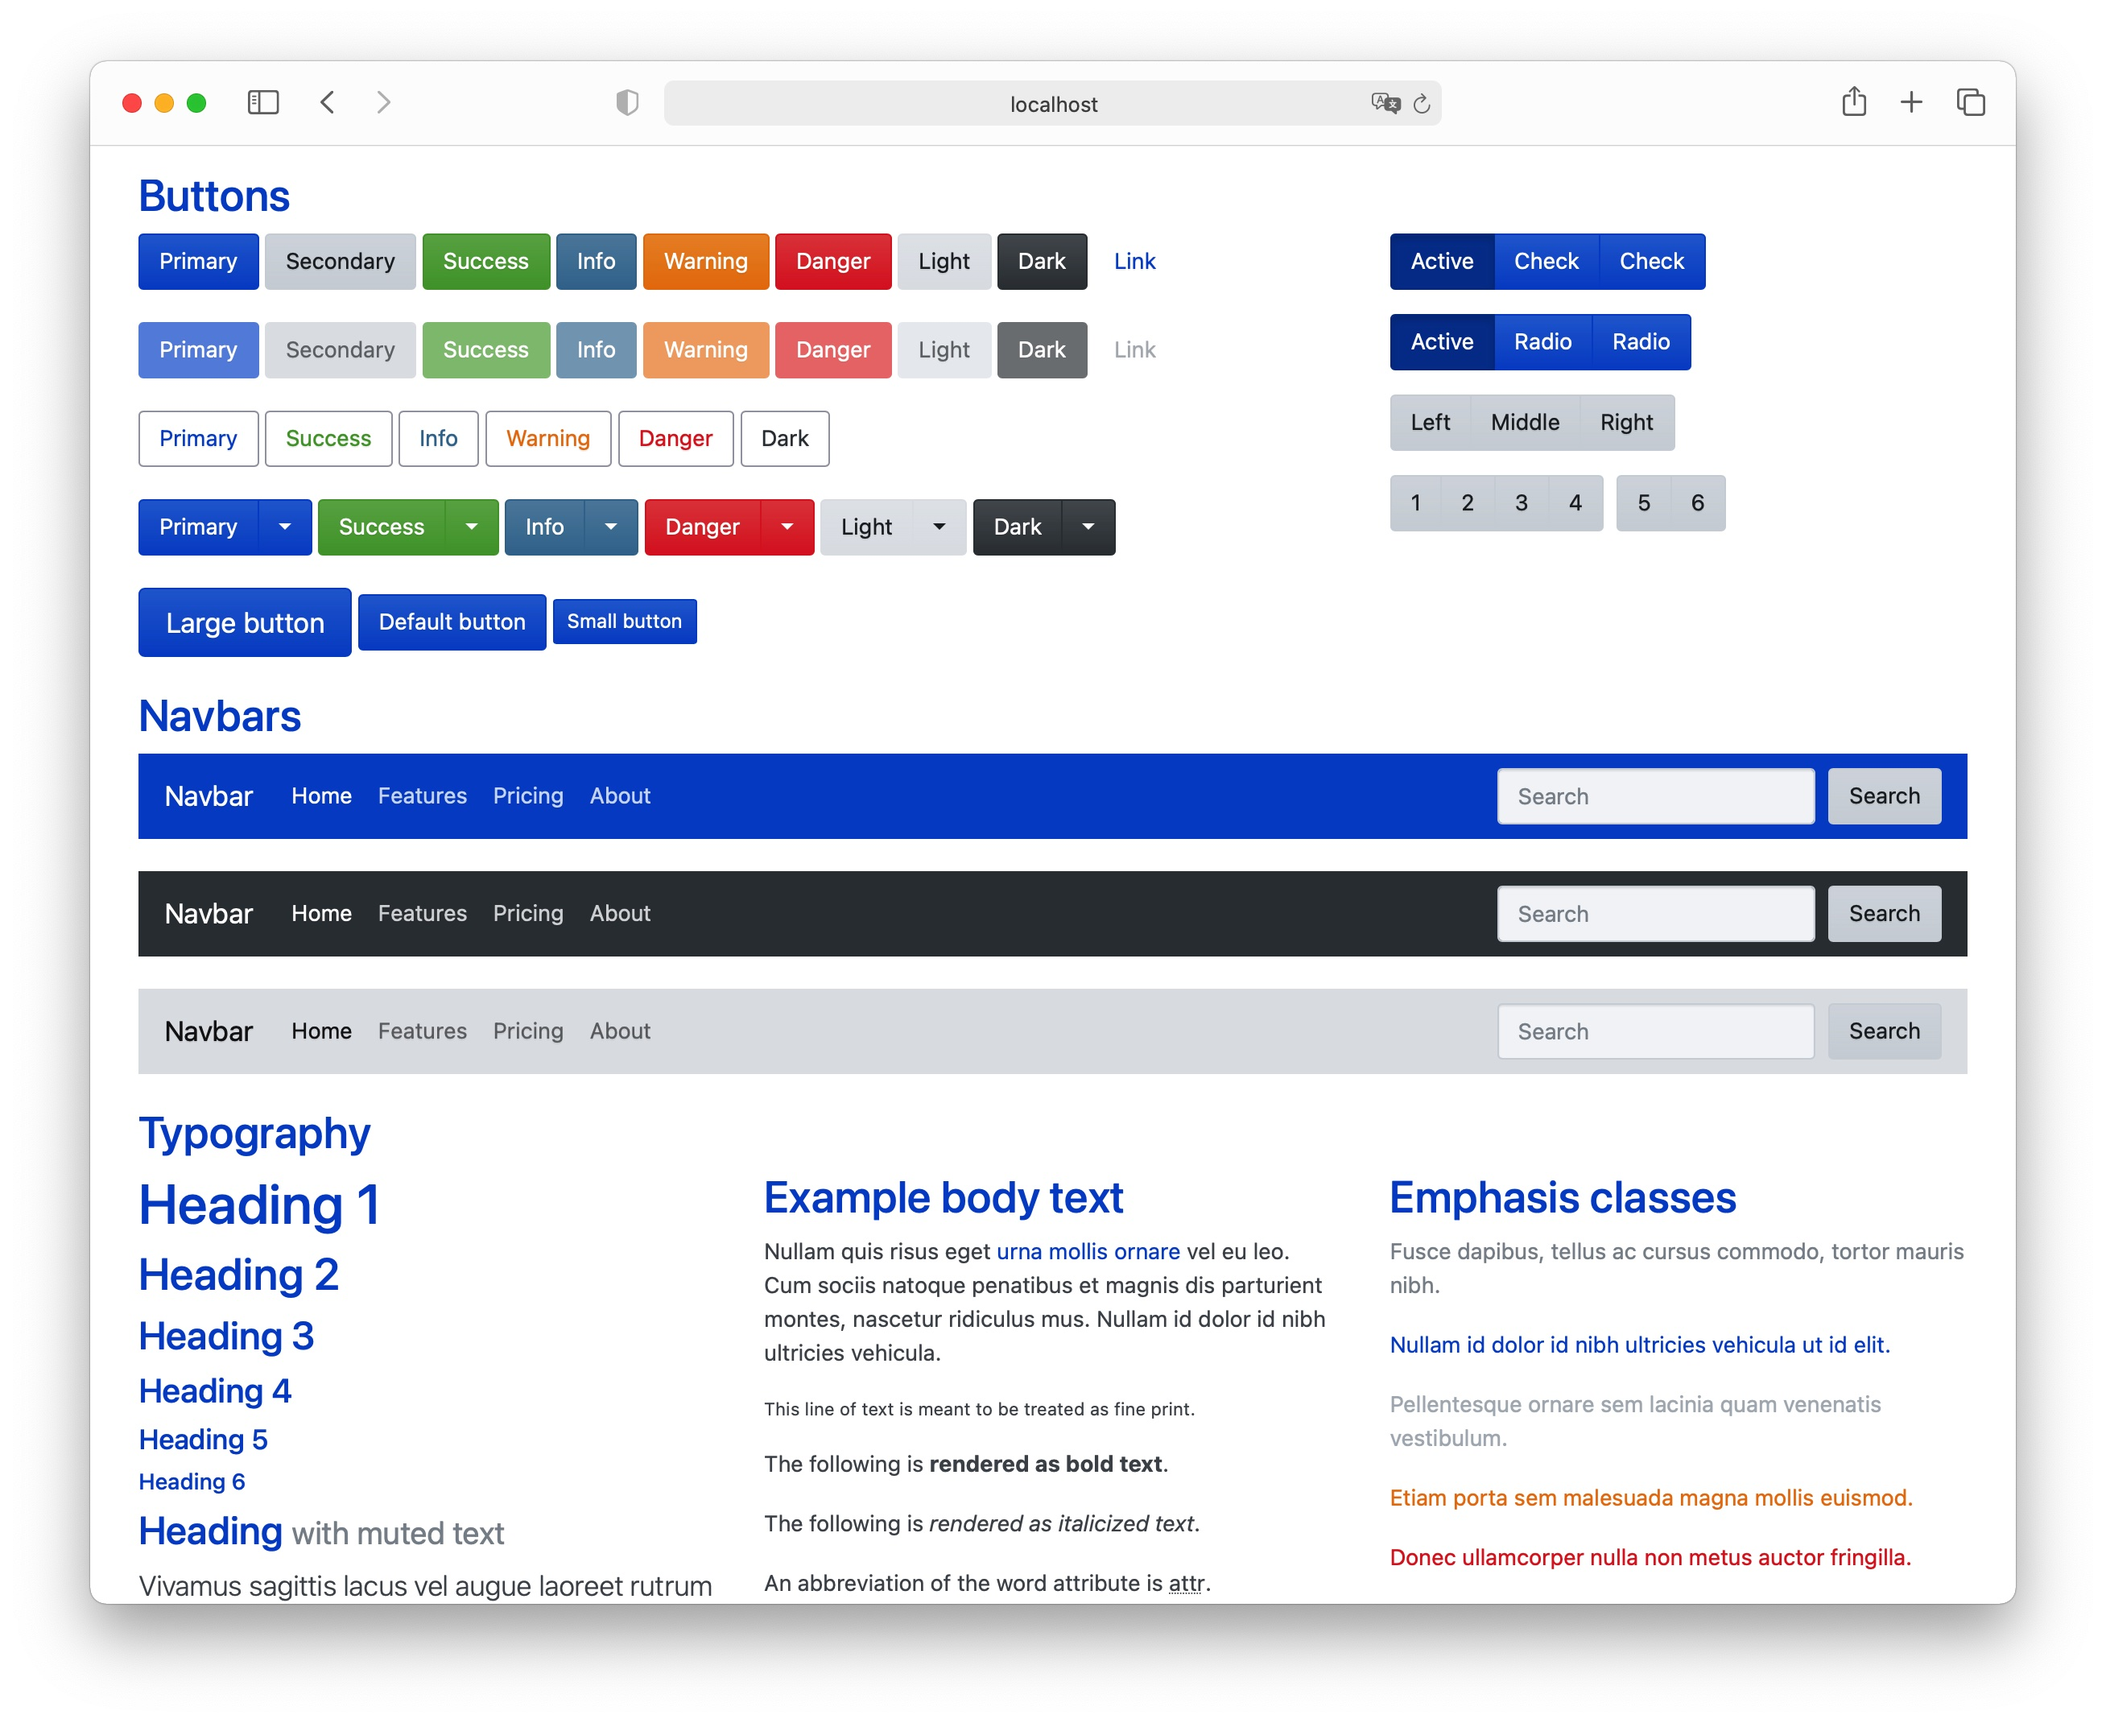
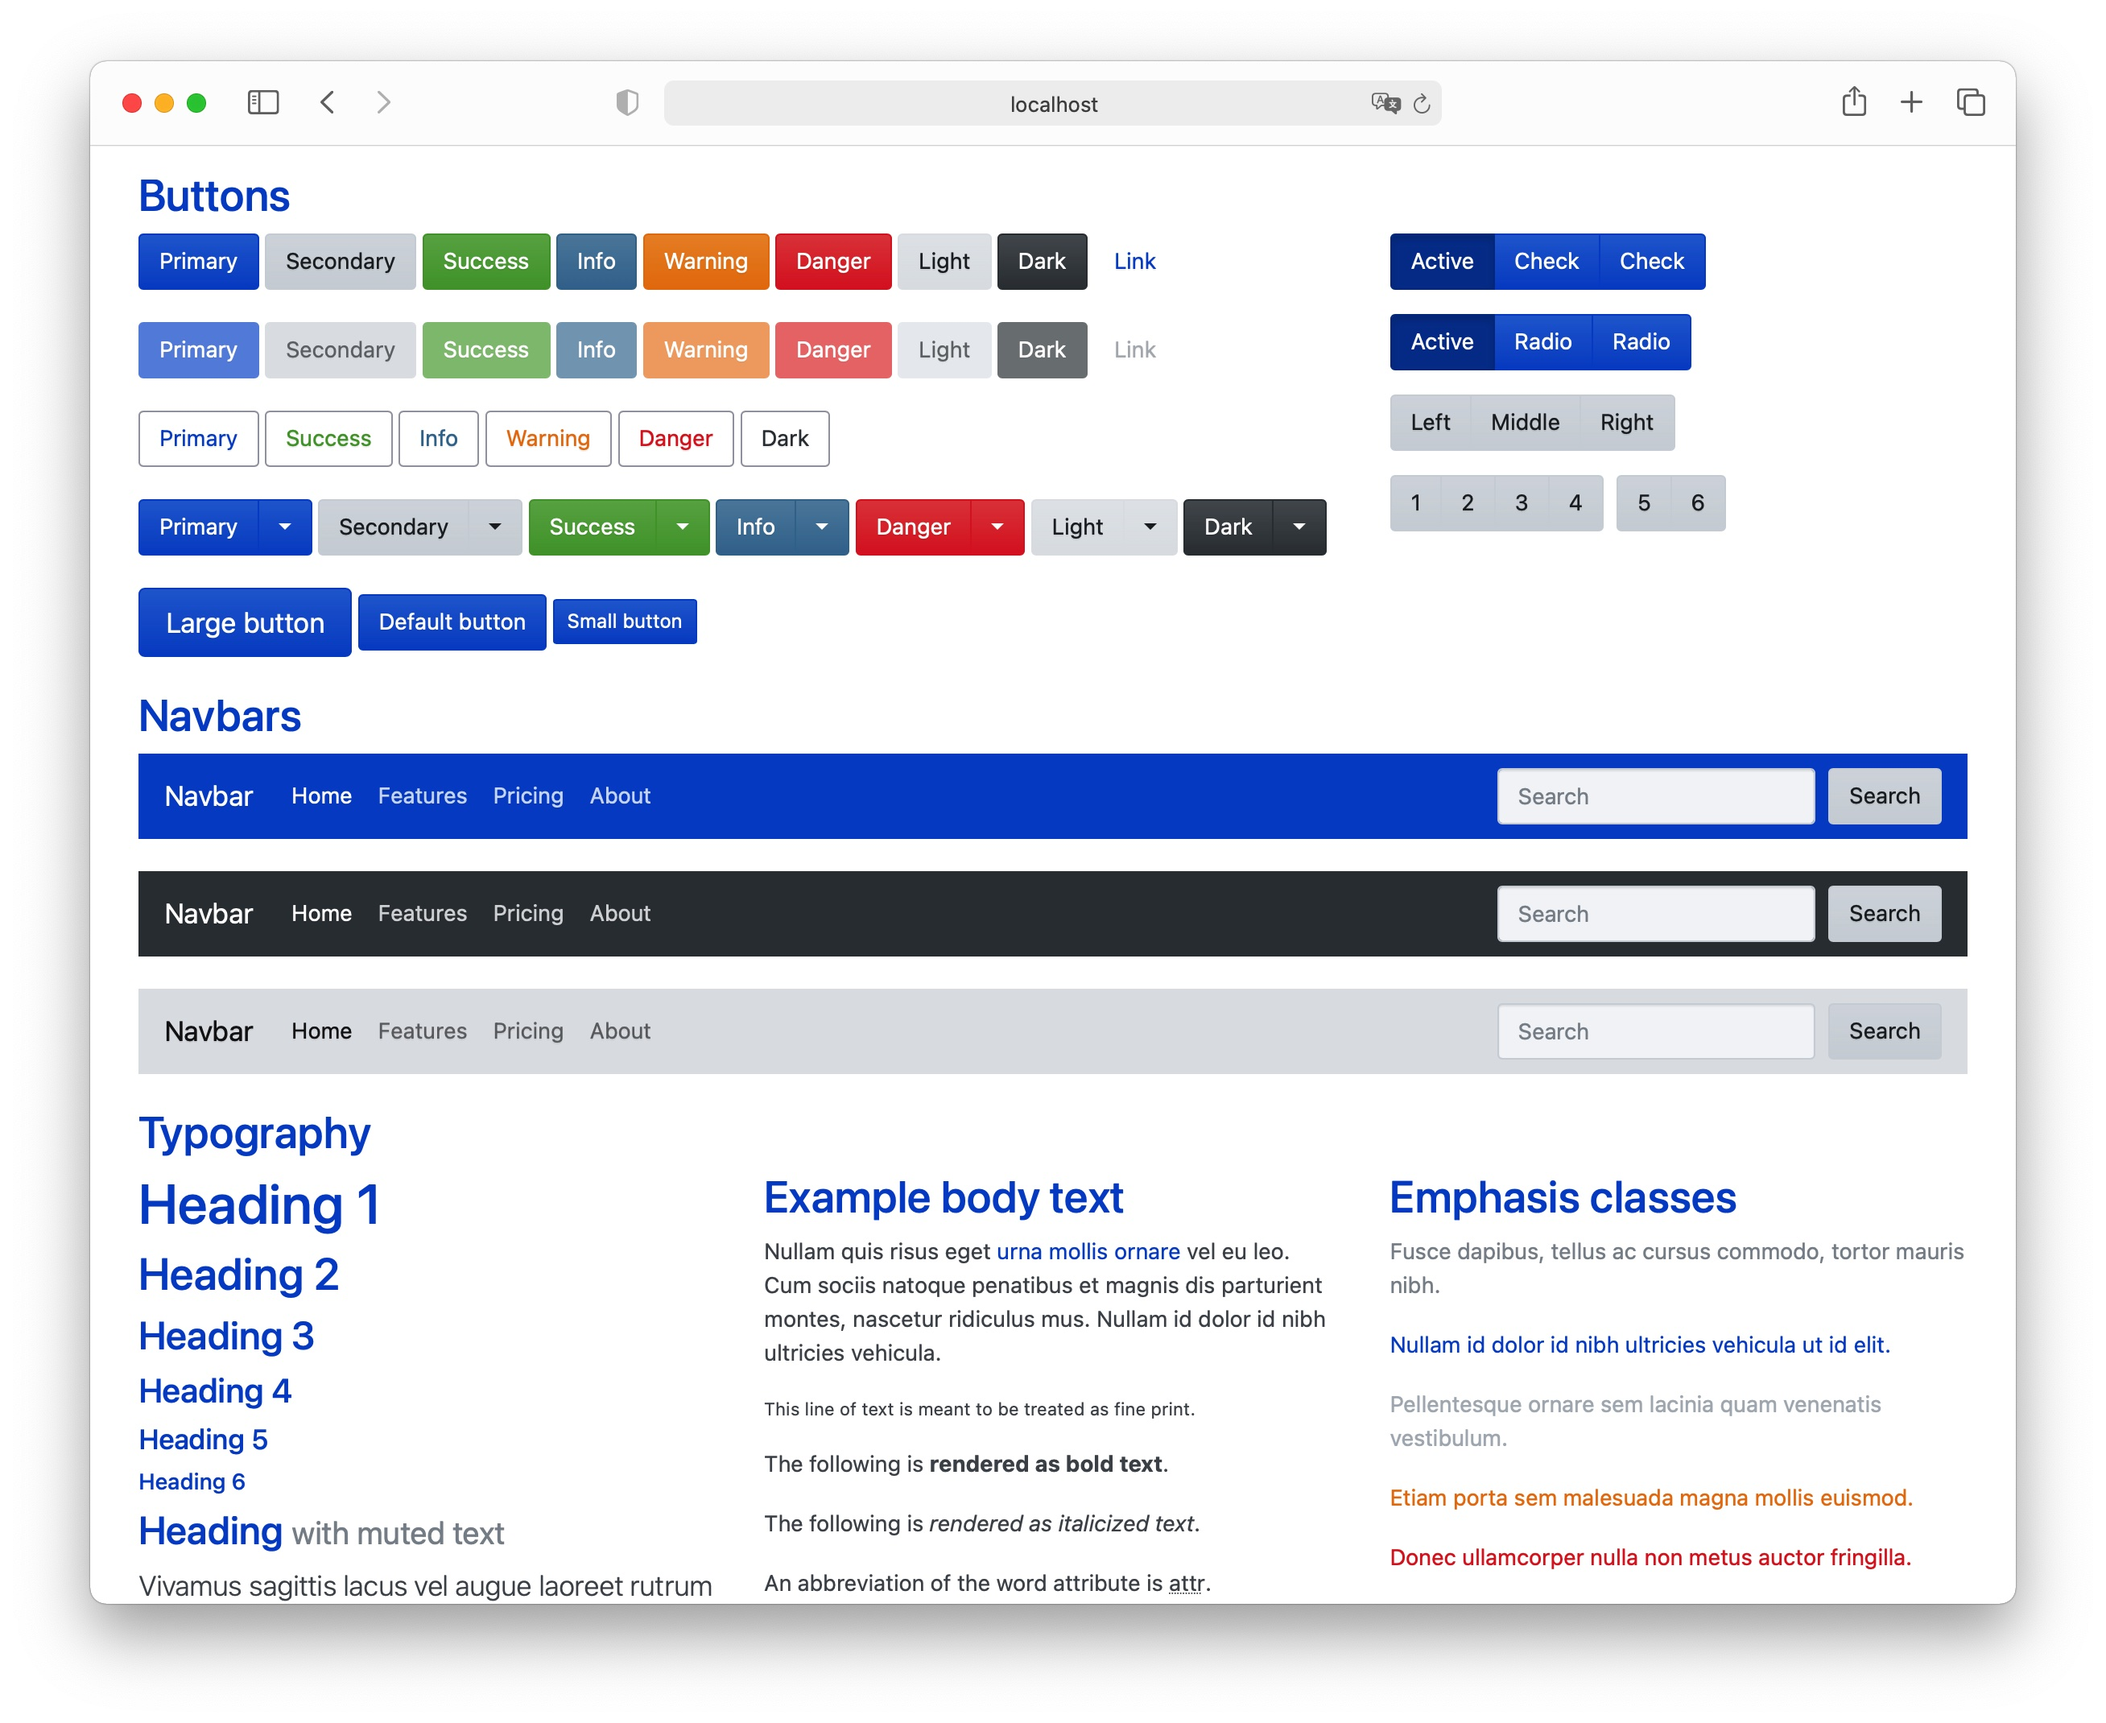
fix: add secondary dropdown buttons

Changed region(s): [[0.1548, 0.2776, 0.6502, 0.3393]]

diff --git a/index.html b/index.html
@@ -100,9 +100,21 @@
             </div>
 
             <div class="btn-group" role="group" aria-label="Button group with nested dropdown">
+              <button type="button" class="btn btn-secondary">Secondary</button>
+              <div class="btn-group" role="group">
+                <button id="btnGroupDrop2" type="button" class="btn btn-secondary dropdown-toggle" data-toggle="dropdown"
+                  aria-haspopup="true" aria-expanded="false"></button>
+                <div class="dropdown-menu" aria-labelledby="btnGroupDrop1">
+                  <a class="dropdown-item" href="#">Dropdown link</a>
+                  <a class="dropdown-item" href="#">Dropdown link</a>
+                </div>
+              </div>
+            </div>
+
+            <div class="btn-group" role="group" aria-label="Button group with nested dropdown">
               <button type="button" class="btn btn-success">Success</button>
               <div class="btn-group" role="group">
-                <button id="btnGroupDrop2" type="button" class="btn btn-success dropdown-toggle" data-toggle="dropdown"
+                <button id="btnGroupDrop3" type="button" class="btn btn-success dropdown-toggle" data-toggle="dropdown"
                   aria-haspopup="true" aria-expanded="false"></button>
                 <div class="dropdown-menu" aria-labelledby="btnGroupDrop2">
                   <a class="dropdown-item" href="#">Dropdown link</a>
@@ -114,7 +126,7 @@
             <div class="btn-group" role="group" aria-label="Button group with nested dropdown">
               <button type="button" class="btn btn-info">Info</button>
               <div class="btn-group" role="group">
-                <button id="btnGroupDrop3" type="button" class="btn btn-info dropdown-toggle" data-toggle="dropdown"
+                <button id="btnGroupDrop4" type="button" class="btn btn-info dropdown-toggle" data-toggle="dropdown"
                   aria-haspopup="true" aria-expanded="false"></button>
                 <div class="dropdown-menu" aria-labelledby="btnGroupDrop3">
                   <a class="dropdown-item" href="#">Dropdown link</a>
@@ -126,7 +138,7 @@
             <div class="btn-group" role="group" aria-label="Button group with nested dropdown">
               <button type="button" class="btn btn-danger">Danger</button>
               <div class="btn-group" role="group">
-                <button id="btnGroupDrop4" type="button" class="btn btn-danger dropdown-toggle" data-toggle="dropdown"
+                <button id="btnGroupDrop5" type="button" class="btn btn-danger dropdown-toggle" data-toggle="dropdown"
                   aria-haspopup="true" aria-expanded="false"></button>
                 <div class="dropdown-menu" aria-labelledby="btnGroupDrop4">
                   <a class="dropdown-item" href="#">Dropdown link</a>
@@ -138,7 +150,7 @@
             <div class="btn-group" role="group" aria-label="Button group with nested dropdown">
               <button type="button" class="btn btn-light">Light</button>
               <div class="btn-group" role="group">
-                <button id="btnGroupDrop5" type="button" class="btn btn-light dropdown-toggle" data-toggle="dropdown"
+                <button id="btnGroupDrop6" type="button" class="btn btn-light dropdown-toggle" data-toggle="dropdown"
                   aria-haspopup="true" aria-expanded="false"></button>
                 <div class="dropdown-menu" aria-labelledby="btnGroupDrop4">
                   <a class="dropdown-item" href="#">Dropdown link</a>
@@ -150,7 +162,7 @@
             <div class="btn-group" role="group" aria-label="Button group with nested dropdown">
               <button type="button" class="btn btn-dark">Dark</button>
               <div class="btn-group" role="group">
-                <button id="btnGroupDrop6" type="button" class="btn btn-dark dropdown-toggle" data-toggle="dropdown"
+                <button id="btnGroupDrop7" type="button" class="btn btn-dark dropdown-toggle" data-toggle="dropdown"
                   aria-haspopup="true" aria-expanded="false"></button>
                 <div class="dropdown-menu" aria-labelledby="btnGroupDrop4">
                   <a class="dropdown-item" href="#">Dropdown link</a>
